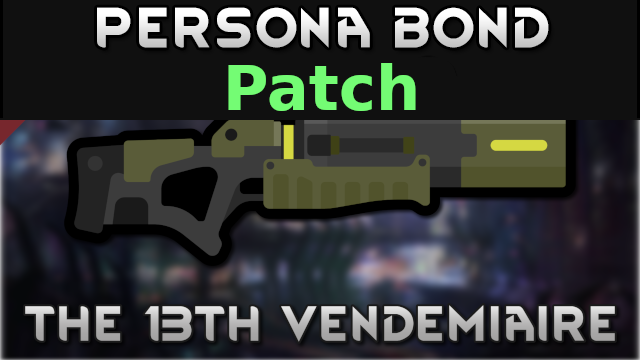
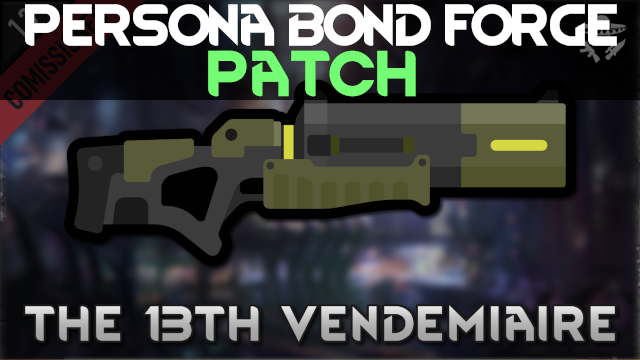
Update Preview.png and README.md

Changed region(s): [[0.0, 0.0, 1.0, 0.3361], [0.0, 0.275, 1.0, 1.0]]

diff --git a/README.md b/README.md
@@ -2,5 +2,13 @@
 
 ![](https://github.com/Daria40K/Persona-Bond-Patch-for-The-13th-Vendemiaire/blob/main/About/Preview.png)
 
+## Required Mods
+- [Persona Bond Forge](https://steamcommunity.com/workshop/filedetails/?id=2178003816) (Steam)
+- [The 13th Vendemiaire](https://steamcommunity.com/sharedfiles/filedetails/?id=2788783749) (Steam)
+
+## Download
+- [Steam](https://steamcommunity.com/sharedfiles/filedetails/?id=2790880926)
+- [GitHub](https://github.com/Daria40K/Persona-Bond-Patch-for-The-13th-Vendemiair/releases)
+
 ## Weapons Patch
 - The 13th Vendemiaire
